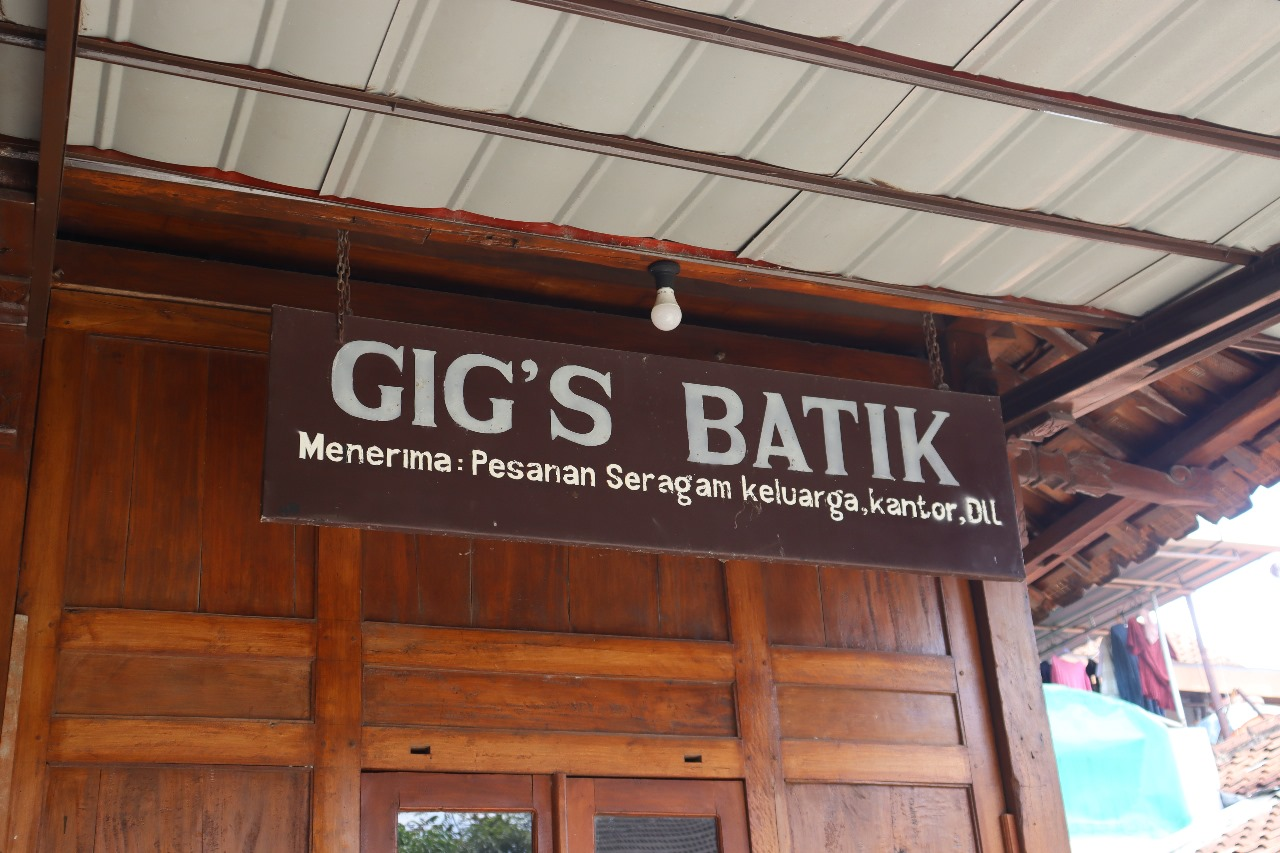
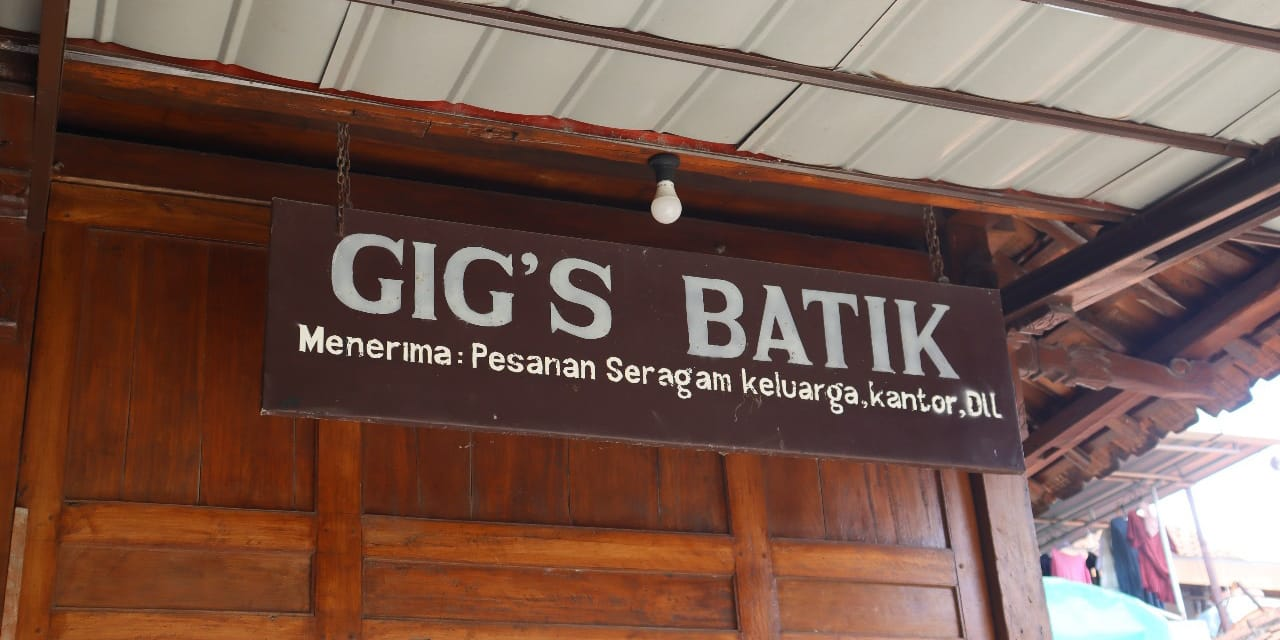
image reposition

diff --git a/home.css b/home.css
@@ -15,6 +15,7 @@
 
 body {
     font-family: 'Quattrocento Sans';
+    background-color: #CABA9C;
 }
 
 .nav-container {
@@ -107,6 +108,12 @@ body {
   display: none;
 }
 
+.Containers img {
+  width: 90%;
+  height: auto;
+  overflow: hidden;
+}
+
 /* forward & Back buttons */
 .Back, .forward {
   cursor: pointer;
@@ -159,7 +166,7 @@ body {
   cursor: pointer;
   height: 16px;
   width: 16px;
-  margin: 0 3px;
+  margin: 0 0px;
   background-color: #acc;
   border-radius: 50%;
   display: inline-block;
@@ -197,12 +204,14 @@ body {
     flex-direction: column;
     justify-content: center;
     align-items: left;
+    margin-bottom: 5%;
 }
 
 .title-logo {
     height : 2.5em;
     width: auto;
 }
+
 
 .content-text p {
     margin-top: 1%;
@@ -214,6 +223,8 @@ body {
     margin-top: 5%;
 }
 
+
+/* Footer */
 .foot-containers {
     background-color: #8A6240;
     display: flex;
